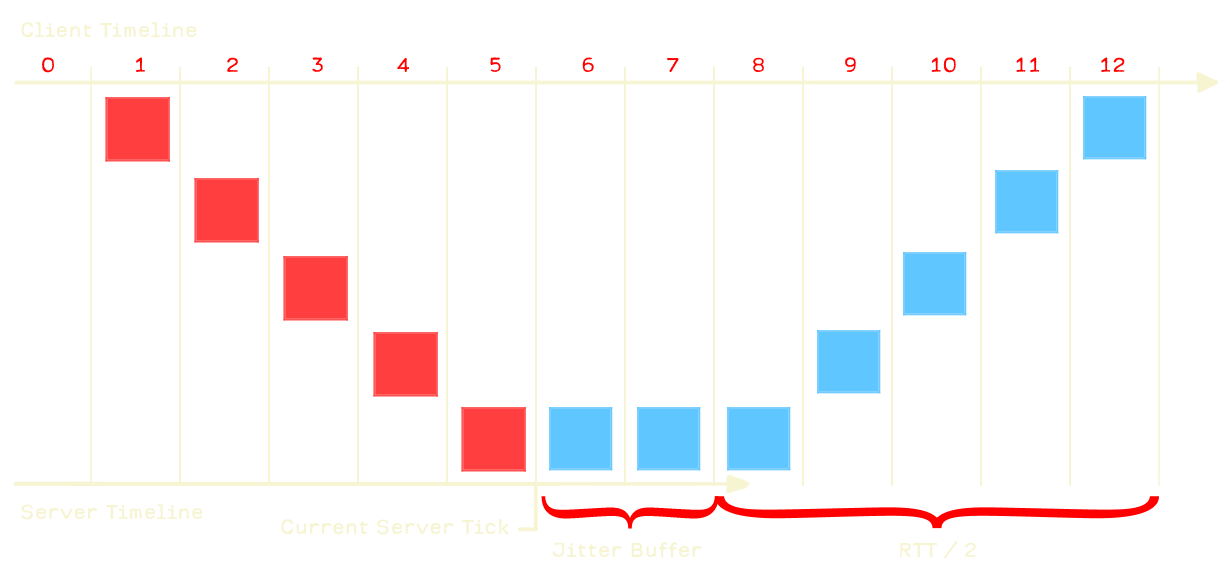
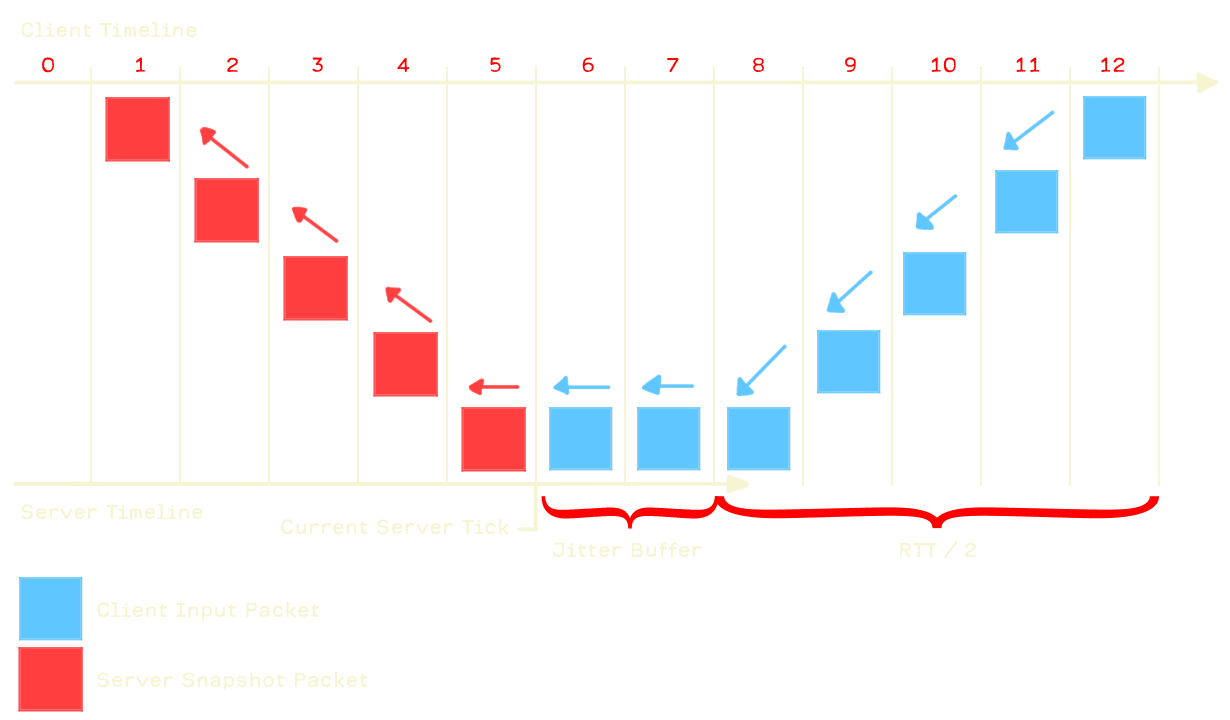
updated visuals + grammar check

Changed region(s): [[0.0, 0.1862, 0.9577, 0.9931], [0.0, 0.031, 0.9886, 0.2172], [0.4634, 0.931, 0.5561, 0.9621]]

diff --git a/blog-posts/hyacinth-server-architecture.html b/blog-posts/hyacinth-server-architecture.html
@@ -45,10 +45,10 @@
     <div class ="blog-post-content">
         <h3>Overview</h3>
         <P>
-			During my final year at university, I decided to take a computer networking course as a part of my minor in CS. While the course taught me the fundamentals behind
-			networked systems, I was still curious as to how they applied to multiplayer online games. This project was the result of diving headfirst into this rabbit hole
-			and immersing myself in creating a netcode system, from scratch, that is capable of supporting a first person shooter game. <br><br>
-			One of my all-time favorite game generes are first-person shooters. Their highly skillful and competitive nature is what initially drew me in, and this project 
+			During my final year at university, I decided to take a computer networking course as part of my CS minor. While the course taught me the fundamentals behind
+			networked systems, I was still curious as to how they applied to multiplayer online games. This project was the result of diving headfirst into this rabbithole
+			and immersing myself in creating a netcode system, from scratch, capable of supporting a first person shooter game. <br><br>
+			One of my all-time favorite game genre is first-person shooters. Their highly skilled and competitive nature is what initially drew me in, and this project 
 			helped me learn about the different ways that online games support this. A majority of the network architecture decisions I made were based on resources from existing
 			multiplayer games such as Valve's CS2, Riot's Valorant, and Blizzard's Overwatch.<br><br>
             This article assumes a basic understanding of networking principles in C/C++, including creating/binding sockets and sending/receiving packets.<br><br>
@@ -62,7 +62,7 @@
 				<li><a href="#breakdown">Architecture Breakdown</a></li>
 				<li><a href="#synchronization">Synchronization + Physics</a></li>
                 <li><a href="#interpolation">Entity Interpolation</a></li>
-                <li><a href="#prediction">Client Prediction + Server Reconcilliation</a></li>
+                <li><a href="#prediction">Client Prediction + Server Reconciliation</a></li>
                 <li><a href="#lagcomp">Lag Compensation</a></li>
             </ul>
         </P>
@@ -76,9 +76,9 @@
 			<h4>UDP Receiver Thread</h4>
 		</div>
 		<p class="subheadertext">
-			This thread handles the simple task of listening for UDP packets, then deserializing, timestamping, and placing them in the in the queue to be processed. <br><br>
+			This thread handles the simple task of listening for UDP packets, then deserializing, timestamping, and placing them in the queue to be processed. <br><br>
 			When a client initially attempts to connect to the server, I have it shoot the server a "tryping" message every one second. When the server receives this packet, this
-			thread records the internet address of the sending client and creates a CLIENT_JOIN event and pushes it to the server event queue. This address will later be used for sending snapshots to. <br><br>
+			thread records the internet address of the sending client, creates a CLIENT_JOIN event, and pushes it to the server event queue. This address will later be used for sending snapshots to. <br><br>
 			<span class="redtext">CHALLENGE:</span>
 			 Originally, I used a naive implementation for the client handshake over TCP for its reliability. The client would connect to a TCP socket, which required yet another thread to maintain. The issue with this is that if two clients attempted to connect at the same time, only one would be allowed to connect with the TCP socket, and 
 			the other would silently crash. To avoid the issue of having to manage multiple TCP sockets per client, I chose to switch everything over to UDP. By implementing
@@ -89,8 +89,8 @@
 			<h4>Watchdog Thread</h4>
 		</div>
 		<p class="subheadertext">
-			Each entity is assigned a heartbeat that represents the last moment in time the server received a packet from the client. This thread is responsible for keeping an eye 
-			on those heartbeats, and detecting when a client is no longer "connected". After creating and pushing a CLIENT_DISCONNECT event to the server event queue, it also interfaces
+			Each entity is assigned a heartbeat marking the last moment in time the server received a packet from the client. This thread is responsible for monitoring those 
+			heartbeats and detecting when a client is no longer "connected". After creating and pushing a CLIENT_DISCONNECT event to the server event queue, it also interfaces
 			with the physics system to remove the client's corresponding character controller from the simulation. The thread sleeps for a full second between checks.
 		</p>
 		<div class="subheader">
@@ -104,7 +104,7 @@
 			Next, it loops over each client and loads the packet it intends to use for the current tick into its bufferedPacket member. If the client does not have a packet for
 			this tick, it uses the previously applied packet (extrapolation). Using these buffered packets, it calls for a physics simulation update. <br><br>
 			It then loops over each client, checking if the client is A) attempting to shoot and B) allowed to shoot by game logic. If both are allowed, it calculates the 
-			rewinded tick of the client, determined by its ping, retreives the snapshot if the rewinded tick is not too far in the past, and passes the client's entity and 
+			rewinded tick of the client, determined by its ping, retrieves the snapshot if the rewinded tick is not too far in the past, and passes the client's entity and 
 			the server snapshot to the physics manager to perform raycasts.<br><br>
 			Finally, it sends out a personalized server snapshot to each client. It timestamps the exact moment when the message was sent out to be used for future ping calculations.
 		</p>
@@ -112,18 +112,18 @@
 		<h3 id="synchronization">Synchronization + Physics</h3>
 		<p>
 			Modern video games use fixed timesteps for physics due to a concept known as simulation divergence. A physics simulation running at a rate of 30hz will eventually
-			diverge from one running at 128hz. This can be solved by decoupling the physics from the render update in the engine, and running it at a fixed frequency. This means 
+			diverge from one running at 128hz. This can be solved by decoupling the physics from the render update in the engine and running it at a fixed frequency. This means 
 			that a client rendering at a frame rate lower than 128hz might see more than one physics step between frames. On the other hand, a client rendering at a frame rate 
 			higher than 128hz would have to linearly interpolate between two physics states to display smoothly and correctly. See <a href="#interpolation">the section on 
 			interpolation</a> for more info. This consistently timestepped physics simulation allows us to achieve the same results between the client and the server simulations. 
-			It further enables implementation of <a href="#prediction">client prediction</a> and <a href="#reconcilliation">server reconcilliation</a>.<br><br>
-			One of the biggest issue with networked games is the unpredictability of the network. Hyacinth uses the UDP protocol to send messages, which means packets often arrive at the
+			It further enables implementation of <a href="#prediction">client prediction</a> and <a href="#reconciliation">server reconciliation</a>.<br><br>
+			One of the biggest issues with networked games is the unpredictability of the network. Hyacinth uses the UDP protocol to send messages, which means packets often arrive at the
 			server late, early, or not at all. This means that we need to establish some form of synchronization between the inputs as they are sent by the client
 			and received by the server. <br><br> 
 			There are multiple ways to go about this, but I chose to go with the solution presented in 
 			<a href="https://www.riotgames.com/en/news/peeking-valorants-netcode">Valorant's netcode article</a>
 			. On the first packet received by the server from each 
-			client, the server establishes a mapping between the client's local reported tick number and the current tick number being processed. By increasing or decreasing the 
+			client, the server establishes a mapping between the client's local reported tick number and the current tick number being processed; by increasing or decreasing the 
 			width of the mapping, the server is able to keep up with spikes in packet latency and ensure that the buffer of inputs is always full. By default, this mapping is 
 			offset by 2 fixed frames, acting as a buffer for network jitter (packets arriving too early / late). When reporting snapshots back to each client, the server marks the
 			packet with the current tick number translated back into the client's local time frame, using the same mapping from before.
@@ -139,7 +139,7 @@
         <h3 id="interpolation">Entity Interpolation</h3>
         <p>
             When the client receives information from the server about the position of other entities, it must update its locally stored positions to match. 
-            However, if the client was to immediately set the entity transforms to those received, that would result in "snappy" movement, as usually the client updates
+            However, if the client were to immediately set the entity transforms to those received, that would result in "snappy" movement, as usually the client updates
             at a frequency higher than the rate at which it receives updates. To mitigate this effect, the client stores the last two updates it received from the server 
 			and linearly interpolates between them to provide smooth motion for all networked entities. <br><br> 
 			You can see it clearly in this example, where the server timestep is exaggerated to 100ms for demonstrative purposes:
@@ -199,15 +199,15 @@ public:
 			client frame rate.
 		</p>
 
-		<h3 id="prediction">Client Prediction + Server Reconcilliation</h3>
+		<h3 id="prediction">Client Prediction + Server Reconciliation</h3>
 		<p>
 			Under an authoritative game server, each client sends its inputs to the server, and the server responds with each clients' final state. If you factor in packet latency
 			into this scenario, it might be tens or even hundreds of milliseconds of delay between when you press an input and see a result on the screen. For this reason, we run
 			a local physics simulation on the client ahead of the server. The client runs ahead of the server by half of the packet round trip time. This concept is known as client 
 			prediction, and makes it so that user inputs have an immediate visual result. <br><br>
-			However, the server is the authority in this situation. When the server simulates the same inputs as the client, there is a chance that they dont match, and the client must 
-			correct itself. This can happen for a variety of reasons, such as a status affect applied or when the client takes fatal damage. 
-			This is known as "server reconcilliation". <br><br>
+			However, the server is the authority in this situation. When the server simulates the same inputs as the client, there is a chance that they don't match, and the client must 
+			correct itself. This can happen for a variety of reasons, such as a status effect applied or when the client takes fatal damage. 
+			This is known as "server reconciliation". <br><br>
 			In order to achieve this, on the client side, we keep track of the pitch, yaw, and movement inputs for each tick that has not yet seen a corresponding confirmation from
 			the server: <br>
 			</p>
@@ -301,9 +301,9 @@ private:
 		<p>
 			Note: the rewind function returns a pair of transforms. This is due to <a href="#interpolation"> entity interpolation</a>, where the 
 			client's transform at any moment is an interpolation of the two most recent past states. <br><br>
-			But why? Why do we need to re-apply and re-simulate the inputs?<br><br>
+			But why? Why do we need to reapply and re-simulate the inputs?<br><br>
 			One side effect of client-side prediction is that the client will always be simulating ahead of the server. When a client's input packet arrives at the server, 
-			there are an X amount of input packets "in flight", where they have been sent by the client, but not yet received by the server. When the client receives a 
+			there are an X number of input packets "in flight", where they have been sent by the client, but not yet received by the server. When the client receives a 
 			correction from the server and sets the reported transform, it is now in the past. Those "in-flight" inputs were effectively discarded by the client's local simulation, 
 			and as they arrive at the server to get simulated, it forms a cascade of continuous rewinds, keeping the client in the past. In order to mitigate this effect, the 
 			client must re-simulate all inputs to restore its position in the future.
@@ -320,6 +320,10 @@ private:
 		</p>
 		<h4 class="equation">Rewind Tick = Current Tick - Jitter Buffer - (Client's Packet Latency / Ms Per Tick)</h4>
 		<p>
+			While there are many different ways to determine client packet latency, I implemented a system where snapshots get timestamped as soon as they leave the server. I also added
+			a field to the client input packet called "ack", which contains the server tick of the most recently received snapshot. When the server gets the client's next packet, it immediately 
+			records the current timestamp, then uses the ack field to index into the snapshot/send timestamp queue. By subtracting the send timestamp from the received timestamp and dividing
+			by 2, the server calculates the client's ping for that packet in particular. <br><br>
 			If the rewound tick is not too far in the past, it is found in the snapshot buffer and passed to the physics manager along with the shooter's current transform. Using
 			PhysX's geometry query system, I loop over every other entity in the scene and test against a capsule geometry at the entity's current position. The function returns 
 			a hitReg struct that states if the shot hit an entity, and which entity got hit. 
@@ -361,6 +365,28 @@ private:
 				<p>Lag Compensation with 700ms simulated packet latency</p>
 			</div>
 		</p>
+
+		<h3>Wrapping Up</h3>
+		<p>
+			Learning about the netcode from games like CS:GO, Valorant, and Overwatch has taught me a lot about the underlying systems that maintain competitive integrity
+			regardless of how powerful a player's setup is or their connection quality. There is a ton of engineering work involved in simple networked interactions that many
+			people (including me, before this project) would just take for granted. <br><br>
+			One of the biggest takeaways I got from this project was designing and implementing multithreaded systems. Managing shared resources between the core render loop and the
+			decoupled physics simulation was a huge challenge, and I'm learning more about the different types of locks, mutexes, and synchronization structures each day I work on it. <br><br>
+			From writing an engine to showcase a DDGI system, to implementing:
+		</p>
+		<ul>
+			<li>An animation skinning system</li>
+			<li>A third-person locomotion system</li>
+			<li>A first person camera with dynamic gun sway</li>
+			<li>An image-based UI system</li>
+			<li>A server with networked entities</li>
+		</ul>
+		<p>
+			... this project has come a really long way. I intend to keep building on it, starting with a major graphics overhaul.
+			More soon!
+		</p>
+
 	 	<h3>Resources Used</h3>
 		<ul>
 			<li><a href="https://www.riotgames.com/en/news/peeking-valorants-netcode">Peeking into Valorant's Netcode</a></li>